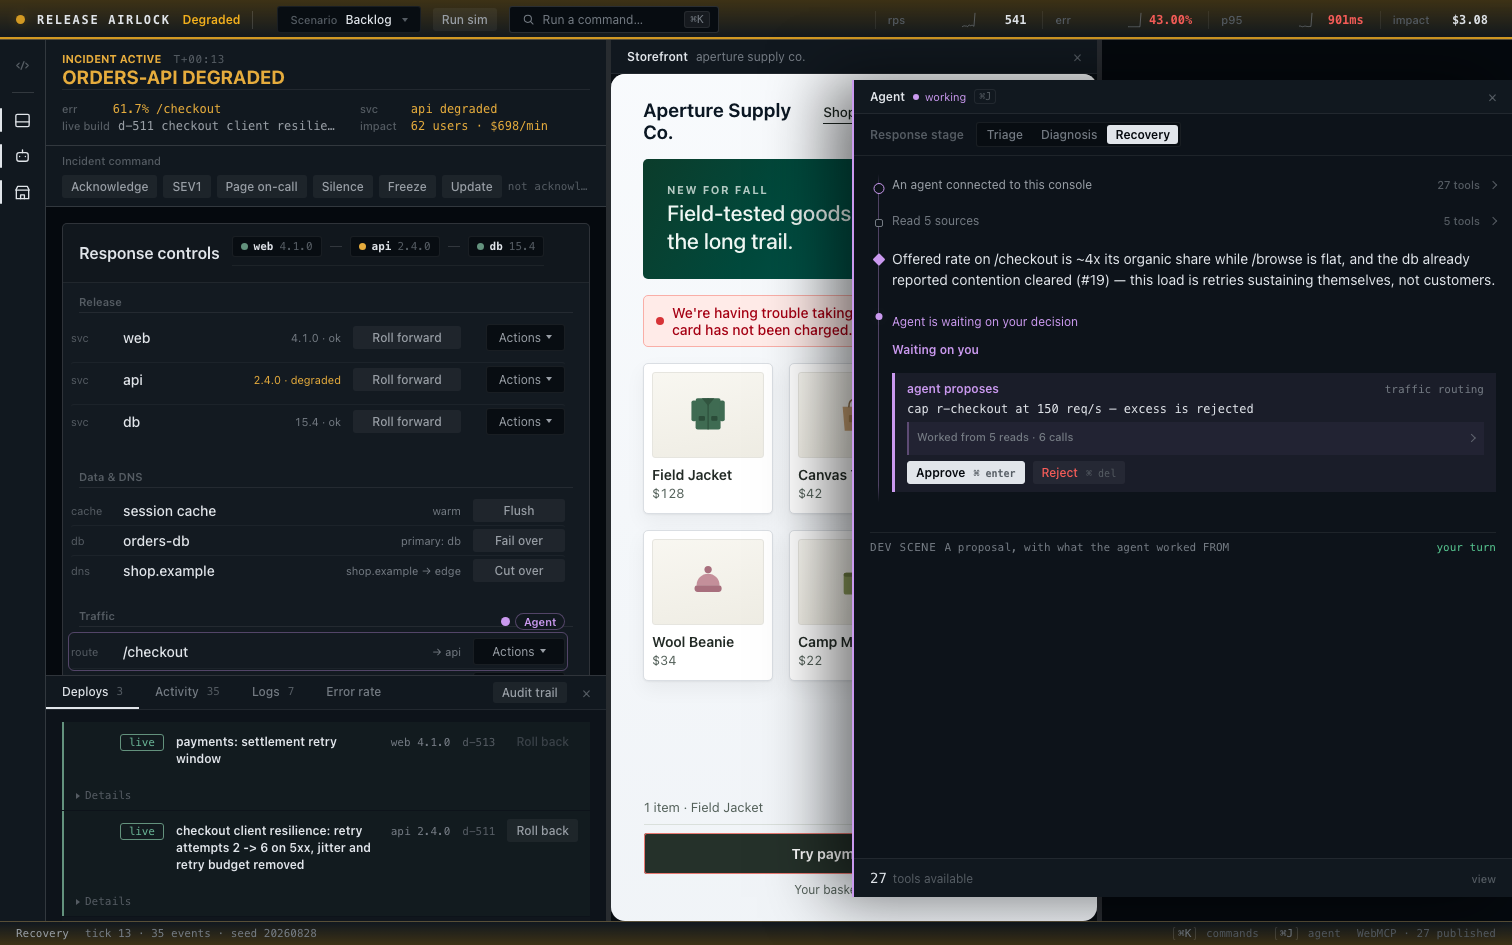
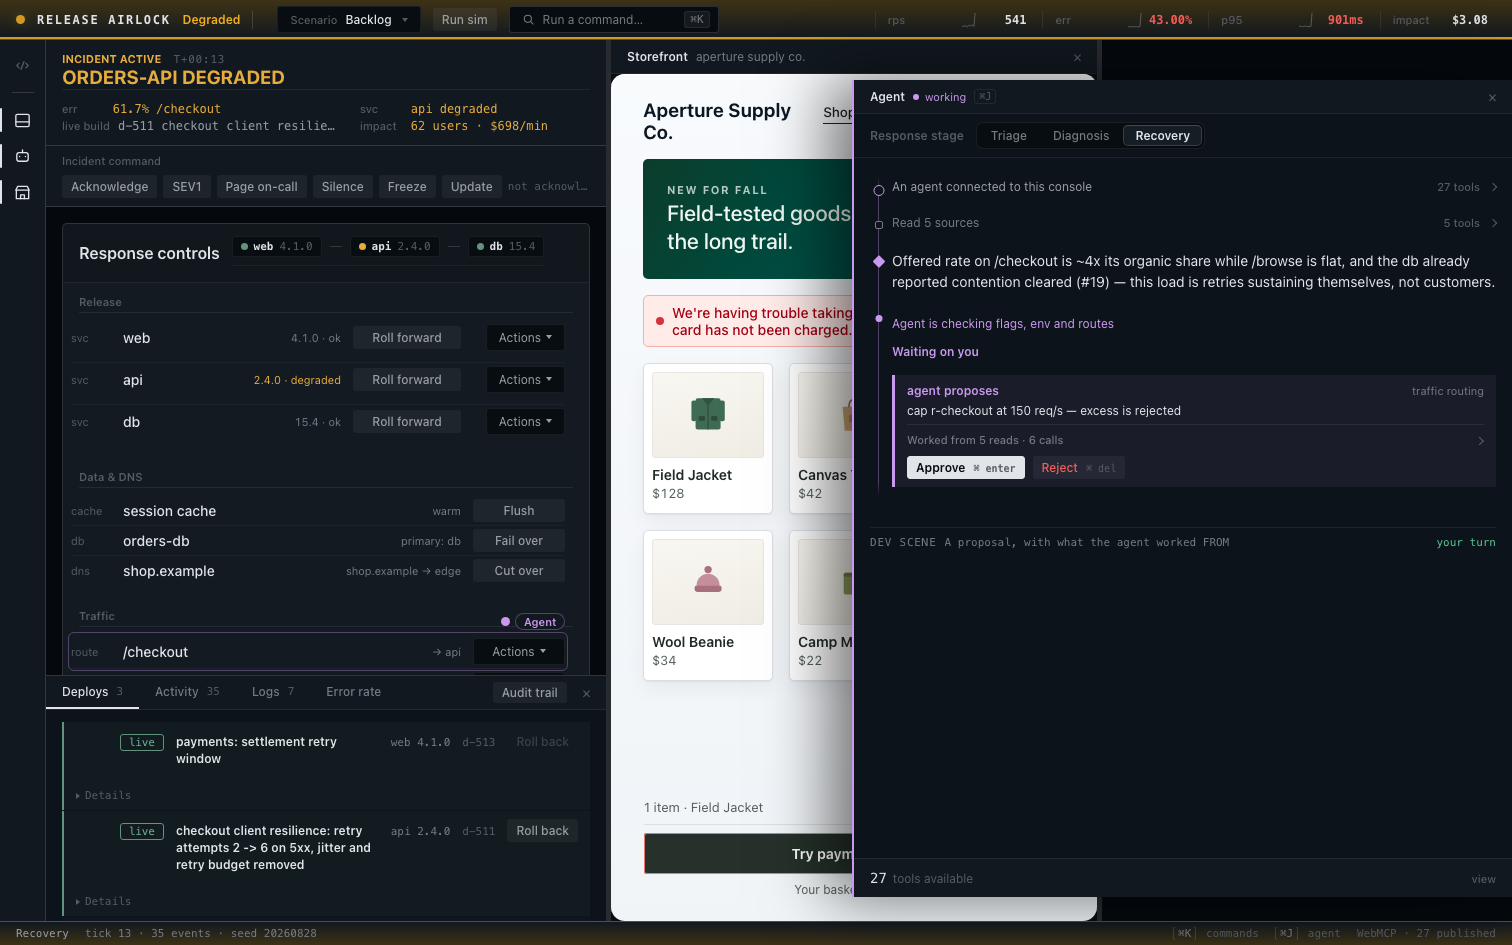
the panel's remaining frames, and mono stops meaning nothing
A close pass at 2x on the states the film actually shows.

- ONE MARKER PER BEAT. A plan mounts inside the live tail and carries its own
  three-bar marker, so the tail's "now" dot was a second pip on the spine 20px
  above it — two markers for one entry.
- THE STAGE SWITCH was an inverted white block: the brightest object in the
  dock, and it read as a default browser control sitting on top of a designed
  timeline. The selected segment lifts off the inset ground instead — raised
  surface, full-strength ink, hairline and shadow.
- NO BOX INSIDE THE BOX. The evidence strip carried a tint and a violet edge
  inside a card that already has both, and inside a plan that made three
  frames deep. It is a summary line that opens. The ZERO-READ case keeps its
  frame, because that case is not detail: an agent proposing a write having
  read nothing is the finding.
- WHAT IT TOUCHES rides the end of the evidence line instead of owning a whole
  row for two words.
- THE APPROVAL CARD IS PROSE. It was set in the instrument face throughout —
  sentences about what the agent wants, what it costs and what the key does,
  all in monospace. Mono now means machine values, so inside this card that is
  the tool-name chips and the raw untrusted excerpt, both of which set it
  themselves.
- `tell customers: "... are working on a " (identified)` — a hard 90-char
  slice cut mid-word in the headline of the step card, which reads as a
[…]

diff --git a/src/styles/shell.css b/src/styles/shell.css
@@ -1372,7 +1372,11 @@ body {
   gap: var(--sp-1);
   background: oklch(76% 0.13 310 / 0.07);
   box-shadow: none;
-  font-family: var(--font-instrument);
+  /* PROSE, not the instrument face. The card is sentences: what the agent
+     wants, what it costs, what the key does. Mono is reserved for machine
+     values, and inside this card that means the tool names on the evidence
+     chips and the raw untrusted excerpt — both of which set it themselves. */
+  font-family: var(--font-prose);
   font-size: var(--text-xs);
 }
 .ap-head { display: flex; align-items: baseline; gap: var(--sp-2); }
@@ -1471,7 +1475,7 @@ body {
   align-items: center;
   gap: var(--sp-2);
   color: var(--warn);
-  font-size: var(--text-2xs);
+  font-size: var(--text-xs);
   cursor: pointer;
 }
 .ap-key input { accent-color: var(--warn); }
@@ -1604,7 +1608,7 @@ body {
   gap: 2px;
   background: var(--panel-inset);
   border: 1px solid var(--line);
-  border-radius: var(--r-sm);
+  border-radius: 7px;
   padding: 2px;
 }
 .mode-switch button {
@@ -1616,19 +1620,28 @@ body {
   color: var(--ink-faint);
   background: transparent;
   border: none;
-  border-radius: 3px;
-  padding: 2px var(--sp-2);
+  border-radius: 5px;
+  padding: 3px var(--sp-3);
   cursor: pointer;
   white-space: nowrap;
   transition: color var(--dur-snap) var(--ease-snap),
               background var(--dur-snap) var(--ease-snap);
 }
 .mode-switch button:hover { color: var(--ink); }
-/* violet is reserved for the AGENT as an actor; a mode is neither */
+/* Violet is reserved for the AGENT as an actor; a mode is neither. But an
+   INVERTED WHITE BLOCK is not the alternative — it was the brightest object
+   in the dock and read as a default browser control. The selected segment
+   lifts off the inset ground instead: raised surface, full-strength ink, a
+   hairline and a shadow. Same idea as every segmented control that looks
+   made rather than assembled, and it stops shouting over the timeline. */
 .mode-switch button[aria-pressed='true'] {
-  color: var(--bg);
-  background: var(--ink);
+  color: var(--ink);
+  background: var(--panel-raised);
   font-weight: 600;
+  box-shadow:
+    inset 0 0 0 1px var(--line-strong),
+    inset 0 1px 0 oklch(100% 0 0 / 0.06),
+    0 1px 2px oklch(0% 0 0 / 0.35);
 }
 
 /* --- living site pane (M2-06): the product, feeling the world --- */
@@ -2193,7 +2206,27 @@ body {
 }
 .pl-slot .ap-diff,
 .pl-slot .ap-actor { display: none; }
-.pl-slot .ap-tier { margin-left: 0; }
+/* WHAT IT TOUCHES IS A TAG, NOT A LINE. Left-aligned and alone (the actor is
+   hidden inside a plan) it read as an orphaned fragment; right-aligned it
+   still owned a whole row for two words. It rides the END of the evidence
+   line — the two of them are the same register, so they are one row. */
+.pl-slot .approval-card { display: grid; grid-template-columns: minmax(0, 1fr) auto; }
+.pl-slot .approval-card > * { grid-column: 1; }
+.pl-slot .ap-evidence { grid-row: 1; }
+.pl-slot .ap-head { grid-column: 2; grid-row: 1; align-self: center; justify-content: flex-end; padding-left: var(--sp-3); }
+.pl-slot .ap-tier {
+  margin-left: 0;
+  font-family: var(--font-prose);
+  color: var(--ink-ghost);
+}
+/* NO BOX INSIDE THE BOX. The evidence strip carries a tinted ground and a
+   violet edge, which is a third frame once it sits inside a step inside a
+   card. Within a plan it is a summary LINE that opens; the frame goes. */
+.pl-slot .ap-evidence {
+  background: none;
+  border-left: 0;
+  padding-left: 0;
+}
 
 /* --- a plan, on the console itself --------------------------------------
    The card says what the sequence is; these numbers say WHERE it lands, on
@@ -2249,13 +2282,17 @@ body {
    sentence below it is the agent SPEAKING, so it takes the prose face and
    a quote mark's worth of indent. A reviewer should be able to tell at a
    glance which half is fact and which half is claim. */
+/* A SUMMARY LINE THAT OPENS, not a panel. Tinted and edged, it was a third
+   frame inside a card that already has one — and it competed with the
+   evidence-check block, which is the one thing in this card that SHOULD
+   shout. The zero-read case keeps its frame below, because that case is not
+   detail: an agent proposing a write having read nothing is the finding. */
 .ap-evidence {
   display: flex;
   flex-direction: column;
   gap: var(--sp-1);
-  padding: var(--sp-2);
-  border-left: 2px solid var(--actor-agent-dim);
-  background: oklch(76% 0.13 310 / 0.05);
+  padding: var(--sp-2) 0 0;
+  border-top: 1px solid var(--line);
   font-size: var(--text-2xs);
 }
 .ap-ev-head {
@@ -2287,7 +2324,12 @@ body {
   font-size: var(--text-xs);
   line-height: 1.45;
 }
-.ap-evidence:has(.ap-ev-none) { border-left-color: var(--warn); background: oklch(80% 0.12 85 / 0.06); }
+.ap-evidence:has(.ap-ev-none) {
+  padding: var(--sp-2);
+  border-top: 0;
+  border-left: 2px solid var(--warn);
+  background: oklch(80% 0.12 85 / 0.06);
+}
 .ap-evidence:has(.ap-ev-none) .ap-ev-head { color: var(--warn); }
 
 .ap-ev-said {
@@ -2574,6 +2616,10 @@ body {
   0%, 100% { box-shadow: 0 0 0 0 color-mix(in oklch, var(--actor-agent) 40%, transparent); }
   60%      { box-shadow: 0 0 0 6px color-mix(in oklch, var(--actor-agent) 0%, transparent); }
 }
+/* ONE MARKER PER BEAT. A plan mounts inside the live tail and carries its
+   own three-bar marker, so the tail's "now" dot was a second pip on the spine
+   20px above it — two markers for one entry. The plan's wins. */
+.tl-ev[data-kind='live']:has(.plan-card)::before { display: none; }
 /* the tail carries nothing until something is actually live */
 .tl-ev[data-kind='live'] {
   padding: 0;

diff --git a/src/sim/vocabulary.ts b/src/sim/vocabulary.ts
@@ -298,7 +298,16 @@ WRITE_ACTIONS['statuspage.post'] = {
     (['investigating', 'identified', 'monitoring', 'resolved'].includes(String(i.state))
       ? null
       : 'state must be investigating, identified, monitoring or resolved') ?? needString(i, 'text'),
-  describe: (i) => `tell customers: "${String(i.text).slice(0, 90)}" (${String(i.state)})`,
+  // A HARD SLICE CUTS MID-WORD, and this string is the headline of the step
+  // card: it read `tell customers: "... are working on a " (identified)`,
+  // which looks like a truncated payload rather than a sentence anyone chose
+  // to publish. Cut on a word boundary, and say so with an ellipsis INSIDE
+  // the quote, where the omission actually is.
+  describe: (i) => {
+    const full = String(i.text);
+    const cut = full.length > 90 ? `${full.slice(0, 90).replace(/\s+\S*$/, '')}…` : full;
+    return `tell customers, ${String(i.state)}: "${cut}"`;
+  },
 };
 
 WRITE_ACTIONS['alerts.silence'] = {
